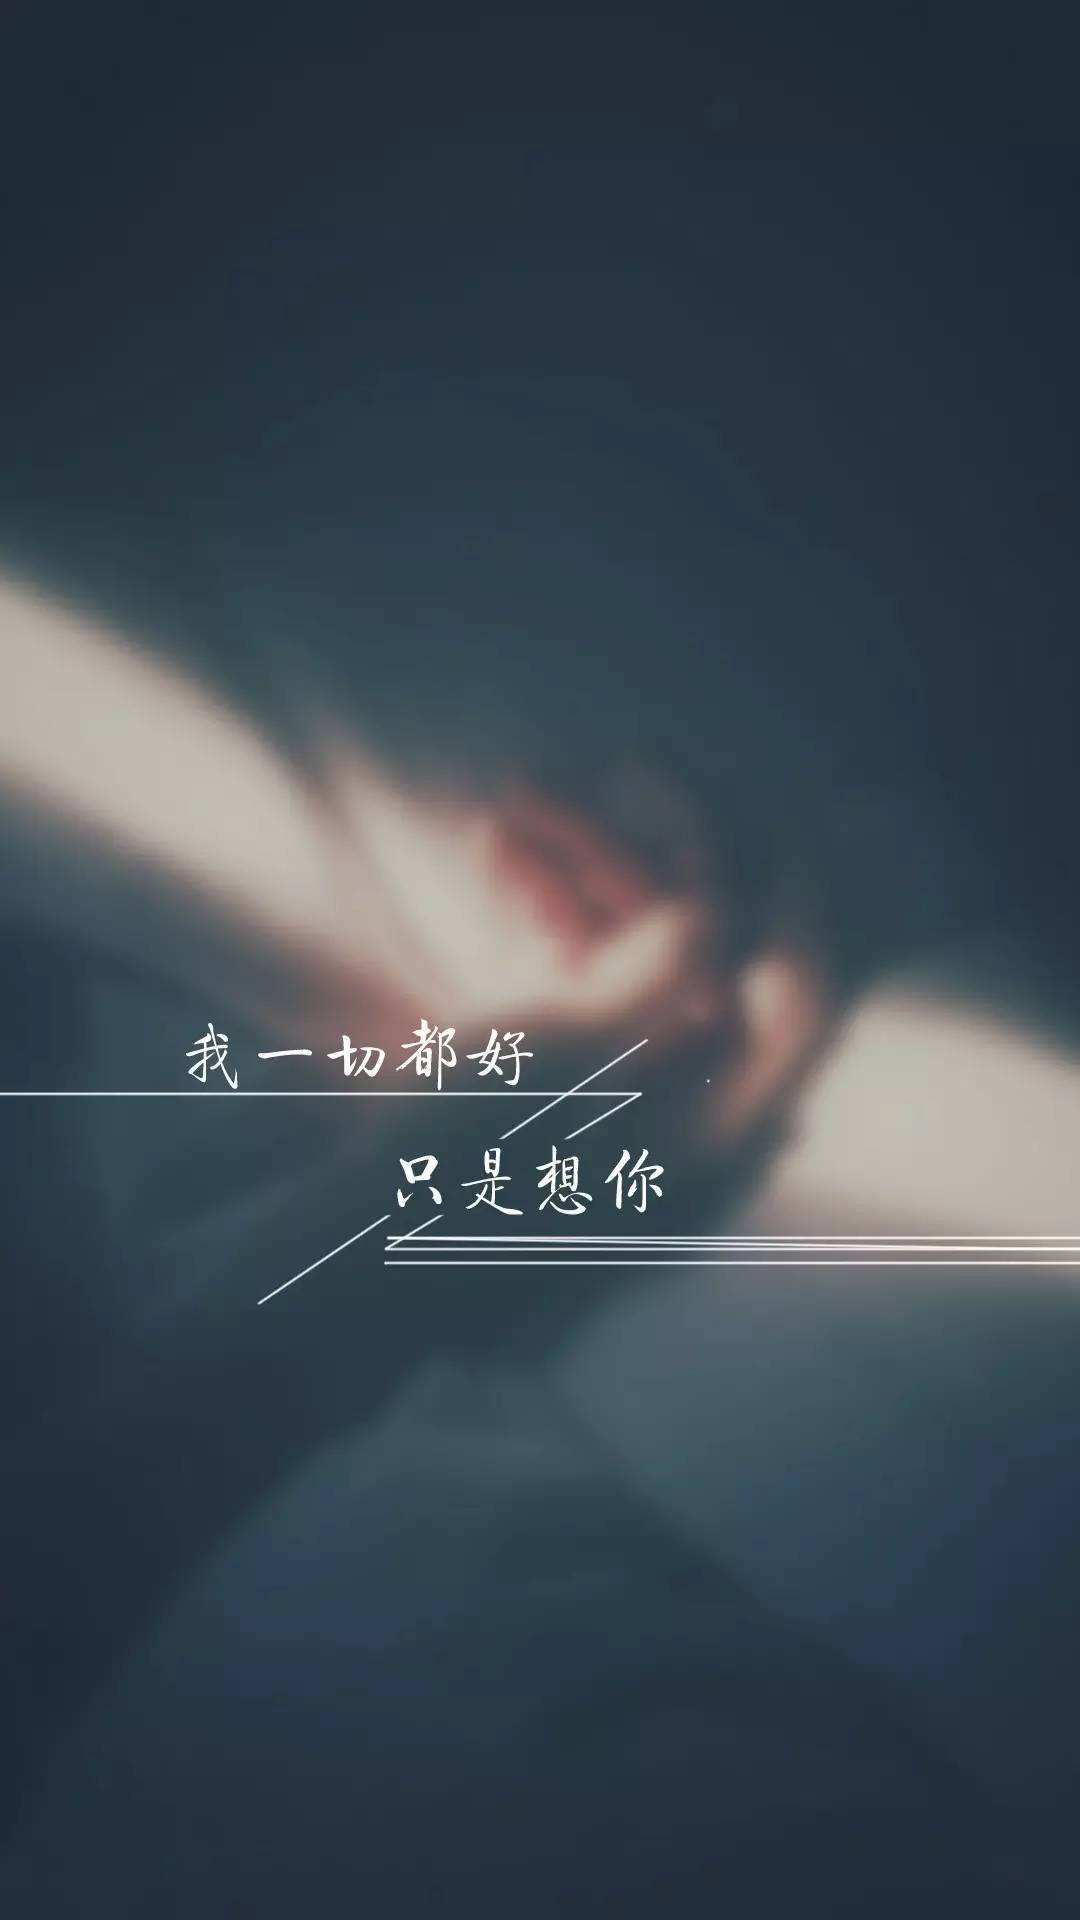
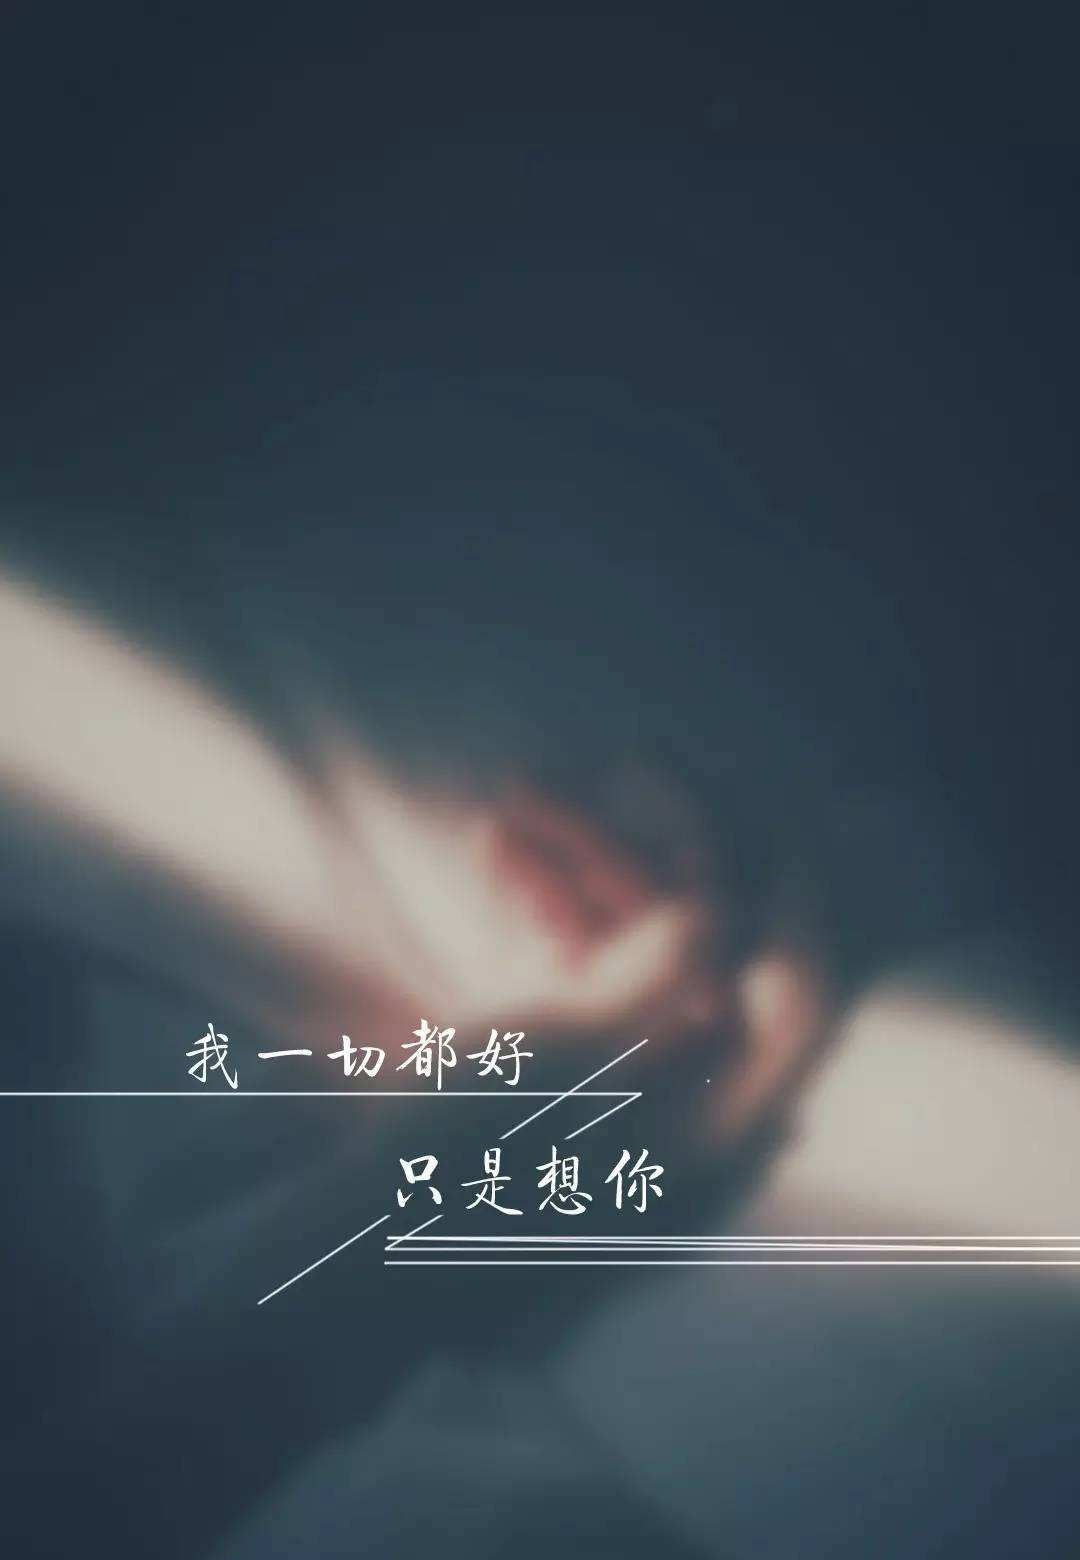
提交

diff --git a/login.html b/login.html
@@ -8,10 +8,17 @@
     <link rel="stylesheet" href="js/weui/css/jquery-weui.min.css"/>
     <link rel="stylesheet" href="css/common.css"/>
     <title></title>
+    <style>
+        body {
+            background-image: url('images/login/timg2.jpg');
+            background-size:100% 100%;
+            height: -webkit-fill-available;
+        }
+    </style>
 </head>
-<body class="bgc30">
+<body class="">
 <div class="ct_center">
-    <div>ceshdddi</div>
+    <div class="clr3f"></div>
     <label class="clr3f ct_l">用户名</label>
     <input type="text" placeholder="ID" id="userId"/>
     <label class="clr3f ct_l">密码</label>
